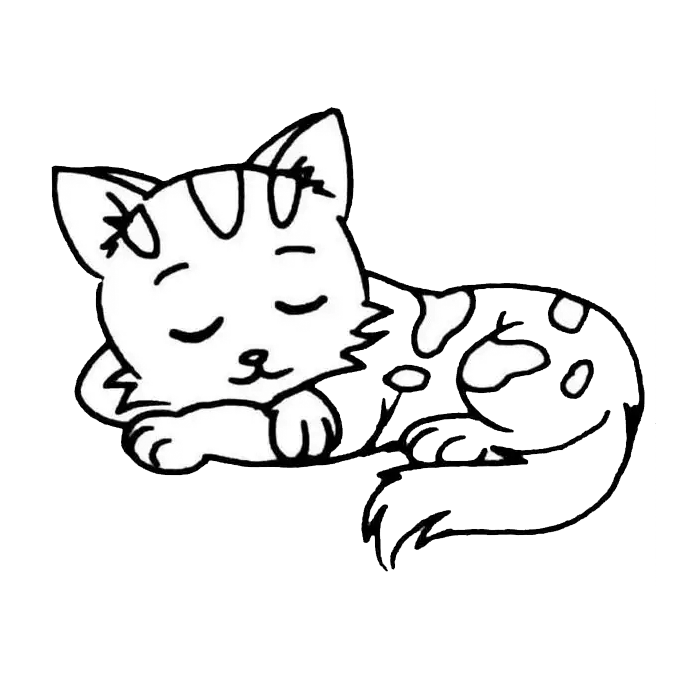
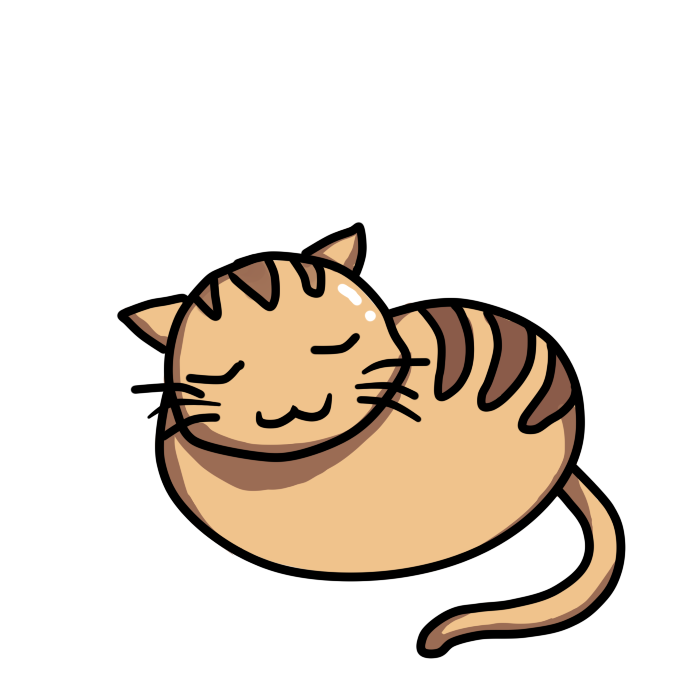
优化撸猫

Changed region(s): [[0.0622, 0.1556, 0.9644, 0.9644]]

diff --git a/app/components/games/TouchCat.js b/app/components/games/TouchCat.js
@@ -14,13 +14,18 @@ import {
     StyleSheet,
 } from '../../constants'
 
+import lo from 'lodash';
 import { px2pd } from '../../constants/resolution';
 import { confirm } from '../dialog/ConfirmDialog';
 import AntDesign from 'react-native-vector-icons/AntDesign';
 
 const IMAGES = [
-    { source: require('../../../assets/games/cat/1.png'), areas: [{ origin: [86, 125], width: 47, height: 30 }] },
-    { source: require('../../../assets/games/cat/2.png'), areas: [{ origin: [86, 125], width: 47, height: 30 }] },
+    { id: 0, source: require('../../../assets/games/cat/1.png'), type: 'wait', areas: [{ origin: [82, 149], width: 108, height: 48 }] }, // 待机1
+    { id: 1, source: require('../../../assets/games/cat/2.png'), type: 'wait', areas: [{ origin: [82, 149], width: 108, height: 48 }] }, // 待机2
+    { id: 2, source: require('../../../assets/games/cat/3A.png'), type: 'happy', areas: [{ origin: [66, 149], width: 124, height: 48 }] }, // 开心A
+    { id: 3, source: require('../../../assets/games/cat/3B.png'), type: 'happy', areas: [{ origin: [66, 149], width: 124, height: 48 }] }, // 开心B
+    { id: 4, source: require('../../../assets/games/cat/3C.png'), type: 'happy', areas: [{ origin: [66, 149], width: 124, height: 48 }] }, // 开心C
+    { id: 5, source: require('../../../assets/games/cat/4.png'), type: 'unhappy', areas: [{ origin: [66, 149], width: 124, height: 48 }] }, // 不开心
 ]
 
 const YAN_WU_DU_LIMIT = 3;
@@ -41,7 +46,7 @@ const StatusBar = (props) => {
                                 props.onClose();
                             }
                         }});
-                    }, 0);
+                    }, 600);
                     return YAN_WU_DU_LIMIT;
                 }
                 return value;
@@ -63,7 +68,7 @@ const StatusBar = (props) => {
                                 props.onClose();
                             }
                         }});
-                    }, 0);
+                    }, 600);
                     return HAO_GAN_DU_LIMIT;
                 }
                 return value;
@@ -101,15 +106,31 @@ const TouchCat = (props) => {
 
     const speedSet = React.useRef([]);
     const touchTimer = React.useRef(null);
-    const detectionAreas = React.useRef(IMAGES[0].areas);
-    const [image, setImage] = React.useState(IMAGES[0].source);
+    const tailTimer = React.useRef(null); // 猫尾巴摆动的定时器
+    const imageIndex = React.useRef(0); // 当前的图片ID
+    const detectionAreas = React.useRef(IMAGES[imageIndex.current].areas);
+    const [image, setImage] = React.useState(IMAGES[imageIndex.current].source);
+
+    const setRandomImage = (imageType) => {
+        const list = IMAGES.filter(e => lo.isEqual(e.type, imageType));
+        if (lo.isArray(list)) {
+            let randItem = lo.shuffle(list)[0];
+            while (list.length > 1) { // 随机一个与上次不一样的
+                if (randItem.id != imageIndex.current)
+                    break;
+                randItem = lo.shuffle(list)[0];
+            }
+            imageIndex.current = randItem.id;
+            setImage(randItem.source);
+        }
+    }
 
     // 地图滑动处理器
     const panResponder = React.useRef(PanResponder.create({
         onMoveShouldSetPanResponder: () => true,
         onPanResponderGrant: (evt, gestureState) => {
-            // const { locationX, locationY } = evt.nativeEvent;
-            // console.debug('onPanResponderGrant', locationX, locationY);
+            const { locationX, locationY } = evt.nativeEvent;
+            console.debug('onPanResponderGrant', locationX, locationY);
         },
         onPanResponderMove: (evt, gestureState) => {
             const { dx, dy, moveX, moveY, x0, y0, vx, vy } = gestureState;
@@ -141,11 +162,16 @@ const TouchCat = (props) => {
             if (speedSet.current.length > 0) {
                 const avgSpeed = Math.abs(totalSpeed / speedSet.current.length);
                 // 移动速度符合则增加好感度，否则增加厌恶度
+                let imageType = '';
                 if (avgSpeed >= 10 && avgSpeed <= 50) {
+                    imageType = 'happy';
                     DeviceEventEmitter.emit('__@StatusBar.addHaoGanDu', 1);
                 } else {
+                    imageType = 'unhappy';
                     DeviceEventEmitter.emit('__@StatusBar.addYanWuDu', 1);
                 }
+                //
+                setRandomImage(imageType);
             }
 
             speedSet.current.length = 0;
@@ -160,6 +186,11 @@ const TouchCat = (props) => {
             touchTimer.current = null;
         }
 
+        if (tailTimer.current != null) {
+            clearInterval(tailTimer.current);
+            tailTimer.current = null;
+        }
+
         let inRange = false; // 是否在检测区域
         detectionAreas.current.forEach(e => {
             if ((locationX >= e.origin[0] && locationX <= (e.origin[0] + e.width))
@@ -171,9 +202,26 @@ const TouchCat = (props) => {
         if (inRange) { // 单纯点击算厌恶
             touchTimer.current = setTimeout(() => {
                 DeviceEventEmitter.emit('__@StatusBar.addYanWuDu', 1);
+                setRandomImage('unhappy');
             }, 600);
         }
     }
+
+    React.useEffect(() => {
+        tailTimer.current = setInterval(() => {
+            const list = IMAGES.filter(e => lo.isEqual(e.type, 'wait'));
+            if (lo.isArray(list)) {
+                const randItem = lo.shuffle(list)[0];
+                imageIndex.current = randItem.id;
+                setImage(randItem.source);
+            }
+        }, 1000);
+        return () => {
+            if (tailTimer.current != null) {
+                clearInterval(tailTimer.current);
+            }
+        }
+    }, []);
 
     return (
         <View style={styles.viewContainer}>
@@ -189,7 +237,7 @@ const TouchCat = (props) => {
                 </View>
                 <StatusBar {...props} />
                 <View style={styles.mainContainer} {...panResponder.panHandlers} onTouchStart={touchEventHandler}>
-                    <FastImage style={{ width: px2pd(675), height: px2pd(675) }} source={image} />
+                    <FastImage style={{ width: px2pd(700), height: px2pd(700) }} source={image} />
                 </View>
             </View>
         </View>
